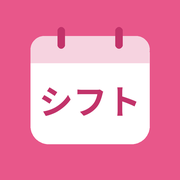
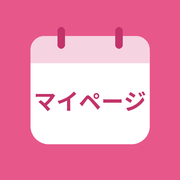
feat: W5 cast page - rename to mypage, hair reserve UI (hidden until switch on)

Changed region(s): [[0.1944, 0.4722, 0.8056, 0.6667]]

diff --git a/cast/index.html b/cast/index.html
@@ -1,5 +1,5 @@
 <!DOCTYPE html>
-<html lang="ja"><head><meta name="robots" content="noindex,nofollow"><meta name="referrer" content="no-referrer"><title>シフト入力</title><meta name="apple-mobile-web-app-title" content="シフト入力"><meta name="apple-mobile-web-app-capable" content="yes"><meta name="theme-color" content="#E8578A"><link rel="apple-touch-icon" href="apple-touch-icon.png"><link rel="manifest" href="manifest.json"><meta charset="utf-8">
+<html lang="ja"><head><meta name="robots" content="noindex,nofollow"><meta name="referrer" content="no-referrer"><title>マイページ</title><meta name="apple-mobile-web-app-title" content="マイページ"><meta name="apple-mobile-web-app-capable" content="yes"><meta name="theme-color" content="#E8578A"><link rel="apple-touch-icon" href="apple-touch-icon.png"><link rel="manifest" href="manifest.json"><meta charset="utf-8">
 <meta name="viewport" content="width=device-width, initial-scale=1">
 <link rel="stylesheet" href="https://fonts.googleapis.com/css2?family=Noto+Sans+JP:wght@400;500;700&display=swap">
 <style>
@@ -38,6 +38,11 @@ select,input[type=text]{width:100%;min-height:44px;font-size:16px;padding:6px 10
 #msg{min-height:24px;text-align:center;font-size:16px;margin-bottom:6px}
 #msg.ok{color:var(--priD)}#msg.ng{color:#d93025}
 #load{padding:40px 0;text-align:center}
+.booked{margin:6px 0;font-weight:700;color:var(--priD)}
+.hbtn{margin-top:8px;min-height:44px;font-size:16px;font-weight:700;background:var(--pri);color:#fff;border:0;border-radius:10px;padding:6px 18px;font-family:inherit;cursor:pointer}
+.hbtn.sec{background:var(--priL);color:var(--priD)}
+.hbtn:disabled{opacity:.6}
+.hmsg{margin:6px 0 0;font-size:15px}.hmsg.ok{color:var(--priD)}.hmsg.ng{color:#d93025}
 .a2hs{border:2px solid var(--pri);position:relative;padding-right:44px}
 .a2hs h2{font-size:17px}
 .a2hs p{margin:4px 0;font-size:16px}
@@ -45,7 +50,7 @@ select,input[type=text]{width:100%;min-height:44px;font-size:16px;padding:6px 10
 .a2hs .go{margin:6px 0 2px;min-height:44px;font-size:16px;font-weight:700;background:var(--pri);color:#fff;border:0;border-radius:10px;padding:6px 18px;font-family:inherit;cursor:pointer}
 </style></head>
 <body>
-<header><div class="in"><h1 id="gen">シフト入力</h1><p id="store"></p></div></header>
+<header><div class="in"><h1 id="gen">マイページ</h1><p id="store"></p></div></header>
 <div class="wrap">
   <div id="load">読み込み中…</div>
   <div id="main" hidden>
@@ -132,6 +137,40 @@ function hairChoices(d) {
   return a.length ? a : data.hairOpts;
 }
 
+// 美容室の予約 (スイッチが入っている時だけ)。「保存」とは別に、押したその場で枠を取る
+function hairCall(d, fn, time) {
+  d.hbusy = true; d.hmsg = ''; render();
+  var done = function (r) {
+    d.hbusy = false;
+    if (r) { d.hb = r.b; d.ho = r.o; d.hair = !!r.b; d.hairTime = r.b ? r.b.time : ''; d.hpick = ''; d.hmsg = r.msg; d.hok = !!r.ok; }
+    render();
+  };
+  var run = google.script.run.withSuccessHandler(done).withFailureHandler(function (e) { d.hbusy = false; d.hmsg = '通信できませんでした。もう一度押してください。'; d.hok = false; render(); });
+  if (fn === 'reserve') run.reserveHair(TOKEN, d.date, time); else run.cancelHair(TOKEN, d.date);
+}
+function hairBox(d) {
+  var s = el('div', 'sub');
+  s.appendChild(el('label', 't', '美容室(ヘアメイク)'));
+  var stale = d.shift !== d.savedShift;
+  if (d.hb) s.appendChild(el('p', 'booked', d.hb.time + ' ' + d.hb.place + ' 予約済み'));
+  if (stale) s.appendChild(el('p', 'hint', '出勤を変えた時は、先に一番下の「保存」を押してください'));
+  else if (d.ho.length) {
+    var sel = mkSel(d.ho, d.hpick || '', d.hb ? '別の時刻に変える' : '予約する時刻を選んでください', function (v) { d.hpick = v; });
+    sel.disabled = !!d.hbusy; s.appendChild(sel);
+    var go = el('button', 'hbtn', d.hb ? '時刻を変更する' : '予約する'); go.type = 'button'; go.disabled = !!d.hbusy;
+    go.onclick = function () { if (!d.hpick) { d.hmsg = '時刻を選んでください'; d.hok = false; render(); return; } hairCall(d, 'reserve', d.hpick); };
+    s.appendChild(go);
+  } else if (!d.hb) s.appendChild(el('p', 'hint', 'この日は空きがありません。お店へ連絡してください'));
+  if (d.hb) {
+    s.appendChild(document.createElement('br'));
+    var cx = el('button', 'hbtn sec', '取り消す'); cx.type = 'button'; cx.disabled = !!d.hbusy;
+    cx.onclick = function () { hairCall(d, 'cancel'); };
+    s.appendChild(cx);
+  }
+  if (d.hmsg) s.appendChild(el('p', 'hmsg ' + (d.hok ? 'ok' : 'ng'), d.hmsg));
+  return s;
+}
+
 function render() {
   var box = document.getElementById('days');
   box.innerHTML = '';
@@ -170,12 +209,13 @@ function render() {
     card.appendChild(add);
 
     if (!rest) {
-      card.appendChild(el('label', 't', '送迎・ヘアメイク'));
+      card.appendChild(el('label', 't', data.hairOn ? '送迎' : '送迎・ヘアメイク'));
       var ch = el('div', 'chips');
       ch.appendChild(chip('送迎 行き(朝) ' + (d.go ? 'あり' : 'なし'), d.go, function () { d.go = !d.go; }));
       ch.appendChild(chip('送迎 帰り ' + (d.back ? 'あり' : 'なし'), d.back, function () { d.back = !d.back; }));
-      ch.appendChild(chip('ヘアメイク ' + (d.hair ? 'あり' : 'なし'), d.hair, function () { d.hair = !d.hair; }));
+      if (!data.hairOn) ch.appendChild(chip('ヘアメイク ' + (d.hair ? 'あり' : 'なし'), d.hair, function () { d.hair = !d.hair; }));
       card.appendChild(ch);
+      if (data.hairOn) card.appendChild(hairBox(d));
 
       if (d.go) {
         var s1 = el('div', 'sub');
@@ -205,7 +245,7 @@ function render() {
         if (d.after) s2.appendChild(el('p', 'hint', 'アフターの日は 3:00 までの帰りになります'));
         card.appendChild(s2);
       }
-      if (d.hair) {
+      if (d.hair && !data.hairOn) {
         var s3 = el('div', 'sub');
         s3.appendChild(el('label', 't', 'ヘアメイクの希望時間'));
         s3.appendChild(mkSel(hairChoices(d), d.hairTime, 'おまかせ', function (v) { d.hairTime = v; }));
@@ -239,6 +279,10 @@ document.getElementById('save').onclick = function () {
     saving = false; btn.disabled = false; btn.textContent = '保存';
     msg.className = 'ok'; msg.textContent = '保存しました';
     data.days.forEach(function (d) { d.plans = d.plans.filter(function (p) { return String(p.n || '').trim(); }); });
+    if (data.hairOn) { // 出勤を変えた日は空き時刻も変わるので読み直す
+      google.script.run.withSuccessHandler(function (r) { if (r && r.ok) { data = r; render(); } }).withFailureHandler(function () {}).getPage(TOKEN);
+      return;
+    }
     render();
   }).withFailureHandler(function (e) {
     saving = false; btn.disabled = false; btn.textContent = '保存';
